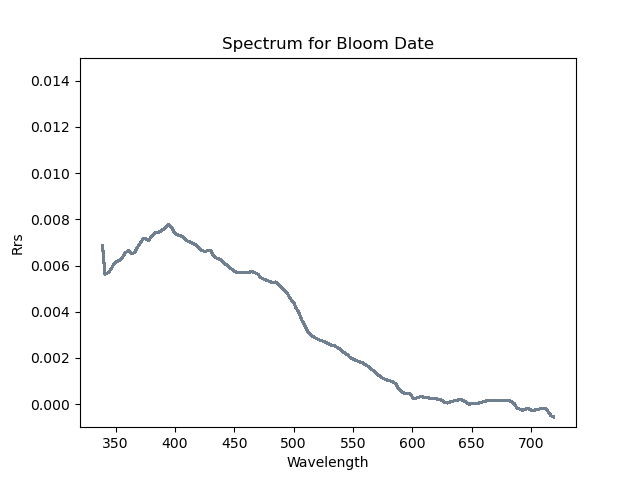
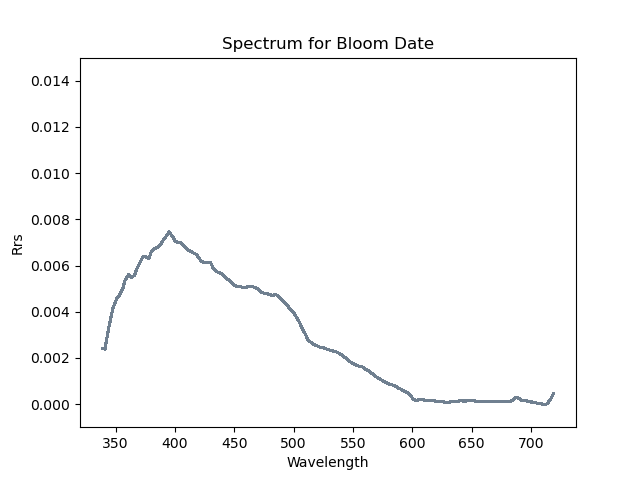
added chl plots and spectral data for the bloom and no bloom days

diff --git a/app/app.py b/app/app.py
@@ -34,9 +34,22 @@ with st.sidebar:
     # create date range picker
     selected_dates = st.date_input(
         'Select a Date Range for Hyperspectral Data',
-        value = (datetime.date(2024, 8, 16), datetime.date(2024, 8, 17)),
+        value = (datetime.date(2024, 8, 4), datetime.date(2024, 8, 8)),
         min_value = datetime.date(2024, 8, 1),
         max_value = datetime.date(2024, 8, 31),
+        format = "YYYY-MM-DD",
+        label_visibility = "visible"
+        )
+    # create sample date picker for Bloom v. No Bloom
+    comp_date_1 = st.date_input(
+        'Date for Bloom',
+        value = (datetime.date(2024, 8, 4)),
+        format = "YYYY-MM-DD",
+        label_visibility = "visible"
+        )
+    comp_date_2 = st.date_input(
+        'Date for No Bloom',
+        value = (datetime.date(2024, 7, 19)),
         format = "YYYY-MM-DD",
         label_visibility = "visible"
         )
@@ -148,19 +161,31 @@ def plot_3d_graph(wavelengths, y_indices, rrs_values):
 fig = plot_3d_graph(wavelengths, y_indices, rrs_values)
 # Show the plot in Streamlit
 st.pyplot(fig)
+st.write('---')
+
 # create columns for hyperspectral plot for comparison between bloom and non-bloom days
 st.markdown("<h1 style='text-align: center;'>Bloom vs. No Bloom</h1>", unsafe_allow_html=True)
+image_spectra = Image.open('images/spectra_range.png')
+st.image(image_spectra, use_column_width=True)
 col1a, col1b = st.columns([15, 15])
 
 with col1a:
     st.markdown("<h5 style='text-align: center;'>Algal Bloom: August 16th, 2024</h5>", unsafe_allow_html=True)
+    st.markdown("<h6 style='text-align: center;'>Hyperspectral Data</h6>", unsafe_allow_html=True)
     image_bloom = Image.open('images/bloom.png')
     st.image(image_bloom, use_column_width=True)
+    st.markdown("<h6 style='text-align: center;'>Chlorophyl Data</h6>", unsafe_allow_html=True)
+    image_chl_bloom = Image.open('images/chl_bloom.png')
+    st.image(image_chl_bloom, use_column_width=True)
 
 with col1b:
     st.markdown("<h5 style='text-align: center;'>Non Algal Bloom: July 19th, 2024</h5>", unsafe_allow_html=True)
+    st.markdown("<h6 style='text-align: center;'>Hyperspectral Data</h6>", unsafe_allow_html=True)
     image_nobloom = Image.open('images/nobloom.png')
     st.image(image_nobloom, use_column_width=True)
+    st.markdown("<h6 style='text-align: center;'>Chlorophyl Data</h6>", unsafe_allow_html=True)
+    image_chl_nobloom = Image.open('images/chl_nobloom.png')
+    st.image(image_chl_nobloom, use_column_width=True)
 
 # commenting out code that runs chlorophyll plot to use screenshots instead for sake of time left on project
 # Create a function to process and visualize the chlorophyll-a data
